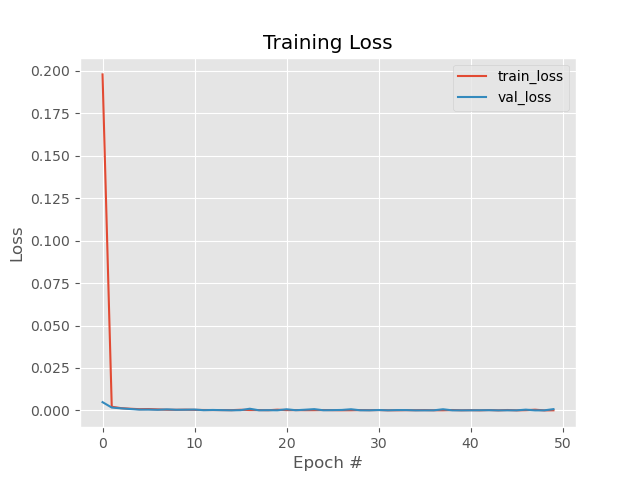
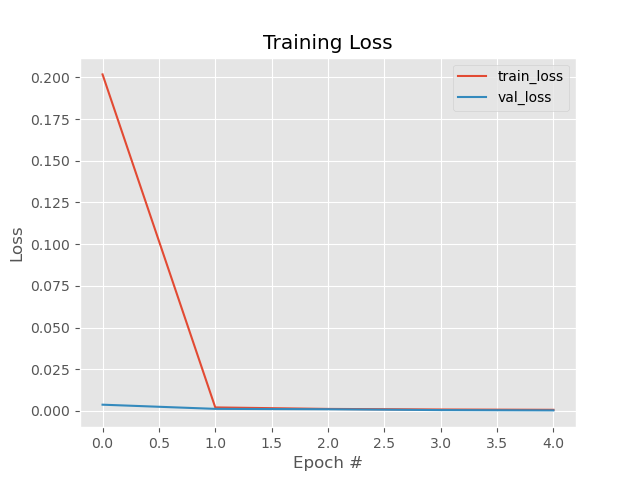
actual 1D first results - right parameters

diff --git a/simulator.py b/simulator.py
@@ -7,9 +7,9 @@ import torch
 dt = 20 # seconds. Time step
 T = 60*60 # seconds. Period of the orbit
 n = 2*np.pi/T # rad/s. Orbital rate
-N_TRAJ = 50 # Number of trajectories
+N_TRAJ = 150 # Number of trajectories
 SEQUENCE_LENGTH = hp.SEQUENCE_LENGTH # Number of time steps to use for prediction
-max_t = T*3 # seconds. Maximum time to simulate
+max_t = T # seconds. Maximum time to simulate
 
 class CWSimulator():
     def __init__(self, dt: float=dt, max_t: float=max_t, n: float=n, N_TRAJ: int=N_TRAJ, SEQUENCE_LENGTH: int=SEQUENCE_LENGTH):
@@ -42,7 +42,7 @@ class CWSimulator():
             return [x]
 
     def simulate_trajectories(self) -> np.ndarray:
-        pos_is = -0.5 + 1 * np.random.random((self.N_TRAJ,3))
+        pos_is = -25 + 5 * np.random.random((self.N_TRAJ,3))
         vel_is = 0.1 * np.zeros((self.N_TRAJ,3))  
         
         # Concatenate pos_i and vel_i along the 2nd dimension
